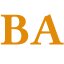
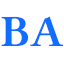
setup projects

Changed region(s): [[0.0, 0.2188, 0.4688, 0.7188], [0.4688, 0.2188, 1.0, 0.7188]]

diff --git a/pages/schedulesystem.jsx b/pages/schedulesystem.jsx
@@ -1,10 +1,10 @@
 import Image from 'next/image';
 import React from 'react';
-import netflixImg from '../public/assets/projects/netflix.jpg';
+import cryptoImg from '../public/assets/projects/schedulesystem.png';
 import { RiRadioButtonFill } from 'react-icons/ri';
 import Link from 'next/link';
 
-const netflix = () => {
+const schedulesystem = () => {
   return (
     <div className='w-full'>
       <div className='w-screen h-[50vh] relative'>
@@ -13,12 +13,12 @@ const netflix = () => {
           className='absolute z-1'
           layout='fill'
           objectFit='cover'
-          src={netflixImg}
+          src={cryptoImg}
           alt='/'
         />
         <div className='absolute top-[70%] max-w-[1240px] w-full left-[50%] right-[50%] translate-x-[-50%] translate-y-[-50%] text-white z-10 p-2'>
-          <h2 className='py-2'>Netflix App</h2>
-          <h3>React JS / Tailwind / Firebase</h3>
+          <h2 className='py-2'>Scheduling System</h2>
+          <h3>mySQL / Java / phpMyAdmin</h3>
         </div>
       </div>
 
@@ -26,48 +26,44 @@ const netflix = () => {
         <div className='col-span-4'>
           <p>Project</p>
           <h2>Overview</h2>
-          <p>
-            I built this application in React JS and is hosted on GitHub pages.
-            This app features user authentication with firebase as well as the
-            firestore cloud storage database. This application is pulling movie
-            data from an the IMDB movie API and displaying different categories.
-            It features horizontal sliding and a featured selection. The
-            useContext hook is also being implemented for app-wide state
-            management.
+          <p className='py-8'>
+          The goal of this project is to create a software that will schedule courses to rooms and add students to each. 
+          The software that we have built uses a GUI to show the connection between databases, courses, and rooms. 
+          There are two databases one for storing courses and another for storing rooms. 
+          The databases are connected to using SQL a “structured query language”. 
+          The databases are changed in a CRUD manner, create, updated, manage, and delete. We first load information to the database using file I/O with excel spreadsheets. This is meant to simulate already existing information.
           </p>
           <a
-            href='https://github.com/fireclint/netflix-react-tailwind'
+            href=''
             target='_blank'
             rel='noreferrer'
           >
             <button className='px-8 py-2 mt-4 mr-8'>Code</button>
           </a>
           <a
-            href='https://fireclint.github.io/netflix-react-tailwind/'
+            href='https://www.youtube.com/watch?v=xPDAesFaRYI'
             target='_blank'
             rel='noreferrer'
           >
             <button className='px-8 py-2 mt-4'>Demo</button>
           </a>
+
         </div>
         <div className='col-span-4 md:col-span-1 shadow-xl shadow-gray-400 rounded-xl py-4'>
           <div className='p-2'>
             <p className='text-center font-bold pb-2'>Technologies</p>
-            <div className='grid grid-cols-3 md:grid-cols-1'>
+            <div className='grid grid-cols-3 md:grid-cols-1 '>
               <p className='text-gray-600 py-2 flex items-center'>
-                <RiRadioButtonFill className='pr-1' /> React
+                <RiRadioButtonFill className='pr-1' /> mySQL
               </p>
               <p className='text-gray-600 py-2 flex items-center'>
-                <RiRadioButtonFill className='pr-1' /> Tailwind
+                <RiRadioButtonFill className='pr-1' /> Java
               </p>
               <p className='text-gray-600 py-2 flex items-center'>
-                <RiRadioButtonFill className='pr-1' /> Javascript
+                <RiRadioButtonFill className='pr-1' /> JavaFX
               </p>
               <p className='text-gray-600 py-2 flex items-center'>
-                <RiRadioButtonFill className='pr-1' /> Firebase
-              </p>
-              <p className='text-gray-600 py-2 flex items-center'>
-                <RiRadioButtonFill className='pr-1' /> IMDB API
+                <RiRadioButtonFill className='pr-1' /> phpMyAdmin 
               </p>
             </div>
           </div>
@@ -80,4 +76,4 @@ const netflix = () => {
   );
 };
 
-export default netflix;
+export default schedulesystem;

diff --git a/pages/personal.jsx b/pages/personal.jsx
@@ -1,10 +1,10 @@
 import Image from 'next/image';
 import React from 'react';
-import cryptoImg from '../public/assets/projects/crypto.jpg';
+import netflixImg from '../public/assets/projects/personal.png';
 import { RiRadioButtonFill } from 'react-icons/ri';
 import Link from 'next/link';
 
-const crypto = () => {
+const personal = () => {
   return (
     <div className='w-full'>
       <div className='w-screen h-[50vh] relative'>
@@ -13,12 +13,12 @@ const crypto = () => {
           className='absolute z-1'
           layout='fill'
           objectFit='cover'
-          src={cryptoImg}
+          src={netflixImg}
           alt='/'
         />
         <div className='absolute top-[70%] max-w-[1240px] w-full left-[50%] right-[50%] translate-x-[-50%] translate-y-[-50%] text-white z-10 p-2'>
-          <h2 className='py-2'>Crypto App</h2>
-          <h3>React JS / Tailwind / Firebase</h3>
+          <h2 className='py-2'>Porftolio Website</h2>
+          <h3>React JS / Tailwind</h3>
         </div>
       </div>
 
@@ -26,37 +26,29 @@ const crypto = () => {
         <div className='col-span-4'>
           <p>Project</p>
           <h2>Overview</h2>
-          <p>
-            I built this app to demonstrate knowledge working in React JS and
-            accessing API endpoints. This app was built using React JS and is
-            hosted on Firebase. This application supports user authentication
-            using firebase. Users are able to create a new account using their
-            email address and can then sign in to save coins to a user specific
-            list. This is made possble by creating a firestore cloud storage
-            database at the time of user registration. Another feature of this
-            application is dynamic routing through the &quot;React Router DOM&quot;
-            package. This application was built using the Coin Gecko API.
+          <p className='py-8'>
+          This is a web programming project that uses react and tailwind.
+          This website contains my projects and a introduction to myself.
           </p>
           <a
-            href='https://github.com/fireclint/crypto-react-firebase'
+            href='https://github.com/Sirpip91/personal-portfolio'
             target='_blank'
             rel='noreferrer'
           >
             <button className='px-8 py-2 mt-4 mr-8'>Code</button>
           </a>
           <a
-            href='https://cryptobase-yt.web.app/'
+            href='https://bradley-allen.com/'
             target='_blank'
             rel='noreferrer'
           >
             <button className='px-8 py-2 mt-4'>Demo</button>
           </a>
-
         </div>
         <div className='col-span-4 md:col-span-1 shadow-xl shadow-gray-400 rounded-xl py-4'>
           <div className='p-2'>
             <p className='text-center font-bold pb-2'>Technologies</p>
-            <div className='grid grid-cols-3 md:grid-cols-1 '>
+            <div className='grid grid-cols-3 md:grid-cols-1'>
               <p className='text-gray-600 py-2 flex items-center'>
                 <RiRadioButtonFill className='pr-1' /> React
               </p>
@@ -67,13 +59,7 @@ const crypto = () => {
                 <RiRadioButtonFill className='pr-1' /> Javascript
               </p>
               <p className='text-gray-600 py-2 flex items-center'>
-                <RiRadioButtonFill className='pr-1' /> Firebase
-              </p>
-              <p className='text-gray-600 py-2 flex items-center'>
-                <RiRadioButtonFill className='pr-1' /> Coin Gecko API
-              </p>
-              <p className='text-gray-600 py-2 flex items-center'>
-                <RiRadioButtonFill className='pr-1' /> Routes
+                <RiRadioButtonFill className='pr-1' /> HTML
               </p>
             </div>
           </div>
@@ -86,4 +72,4 @@ const crypto = () => {
   );
 };
 
-export default crypto;
+export default personal;

diff --git a/components/Projects.jsx b/components/Projects.jsx
@@ -2,8 +2,8 @@ import Image from 'next/image';
 import Link from 'next/link';
 import React from 'react';
 import Wargames from '../public/assets/projects/wargames.jpg';
-import cryptoImg from '../public/assets/projects/crypto.jpg'
-import netflixImg from '../public/assets/projects/netflix.jpg'
+import cryptoImg from '../public/assets/projects/schedulesystem.png'
+import netflixImg from '../public/assets/projects/personal.png'
 import twitchImg from '../public/assets/projects/twitch.jpg'
 import ProjectItem from './ProjectItem';
 
@@ -11,7 +11,7 @@ const Projects = () => {
   return (
     <div id='projects' className='w-full'>
       <div className='max-w-[1240px] mx-auto px-2 py-16'>
-        <p className='text-xl tracking-widest uppercase text-[#E18A07]'>
+        <p className='text-xl tracking-widest uppercase text-[#0e6fff]'>
           Projects
         </p>
         <h2 className='py-4'>What I&apos;ve Built</h2>
@@ -23,26 +23,19 @@ const Projects = () => {
             tech='Java/JavaFX'
           />
           <ProjectItem
-            title='Crypto App'
+            title='Schedule System'
             backgroundImg={cryptoImg}
-            projectUrl='/crypto'
-            tech='React JS'
-
+            projectUrl='/schedulesystem'
+            tech='mySQL/Java'
           />
+
           <ProjectItem
-            title='Netflix App'
+            title='Portfolio Website'
             backgroundImg={netflixImg}
-            projectUrl='/netflix'
-            tech='React JS'
-
+            projectUrl='/personal'
+            tech='React/Tailwind'
           />
-          <ProjectItem
-            title='Twitch UI'
-            backgroundImg={twitchImg}
-            projectUrl='/twitch'
-            tech='Next JS'
 
-          />
         </div>
       </div>
     </div>

diff --git a/components/About.jsx b/components/About.jsx
@@ -8,18 +8,18 @@ const About = () => {
     <div id='about' className='w-full md:h-screen p-2 flex items-center py-16'>
       <div className='max-w-[1240px] m-auto md:grid grid-cols-3 gap-8'>
         <div className='col-span-2'>
-          <p className='uppercase text-xl tracking-widest text-[#E18A07]'>
+          <p className='uppercase text-xl tracking-widest text-[#0e6fff]'>
             About
           </p>
-          <h2 className='py-4'>Bradley Allen</h2>
+          <h2 className='py-2'>Bradley Allen</h2>
           <p className='py-2 text-gray-600'>
             
           </p>
-          <p className='py-2 text-gray-900 text-2xl'>
+          <p className='py-4 text-gray-900 text-xl'>
             I am a Self taught <b>Software Engineer</b> attending  <b>Lamar University</b>. I enjoy developing software that is linked closely
              to the hardware.
           </p>
-          <p className='py-2 text-gray-900 text-2xl'>
+          <p className='py-2 text-gray-900 text-xl'>
            <b>Interests:</b><br></br>
            Machine Learning, Artificial Intelligence, and Web Development
           </p>
@@ -27,7 +27,7 @@ const About = () => {
 
 
           <Link href='/#projects'>
-            <p className='py-2 text-gray-600 underline cursor-pointer'>
+            <p className='py-6 text-gray-600 underline cursor-pointer'>
               Check out some of my latest projects.
             </p>
           </Link>

diff --git a/components/Navbar.jsx b/components/Navbar.jsx
@@ -6,6 +6,7 @@ import { FaGithub, FaLinkedinIn } from 'react-icons/fa';
 import { BsFillPersonLinesFill } from 'react-icons/bs';
 // import { useRouter } from 'next/router';
 import NavLogo from '../public/assets/navLogo.png'
+import autoprefixer from 'autoprefixer';
 
 const Navbar = () => {
   const [nav, setNav] = useState(false);
@@ -119,8 +120,8 @@ const Navbar = () => {
                 <a>
                   <Image
                     src={NavLogo}
-                    width='87'
-                    height='35'
+                    width='80'
+                    height= '78'
                     alt='/'
                   />
                 </a>
@@ -134,7 +135,7 @@ const Navbar = () => {
             </div>
             <div className='border-b border-gray-300 my-4'>
               <p className='w-[85%] md:w-[90%] py-4'>
-                Let&#39;s build something legendary together
+                Let&#39;s code some projects!
               </p>
             </div>
           </div>
@@ -172,7 +173,7 @@ const Navbar = () => {
               </Link>
             </ul>
             <div className='pt-40'>
-              <p className='uppercase tracking-widest text-[#5651e5]'>
+              <p className='uppercase tracking-widest text-[#0e6fff]'>
                 Let&#39;s Connect
               </p>
               <div className='flex items-center justify-between my-4 w-full sm:w-[80%]'>

diff --git a/components/Contact.jsx b/components/Contact.jsx
@@ -25,7 +25,7 @@ const Contact = () => {
   return (
     <div id='contact' className='w-full lg:h-screen'>
       <div className='max-w-[1240px] m-auto px-2 py-16 w-full '>
-        <p className='text-xl tracking-widest uppercase text-[#E18A07]'>
+        <p className='text-xl tracking-widest uppercase text-[#0e6fff]'>
           Contact
         </p>
         <h2 className='py-4'>Get In Touch</h2>
@@ -159,7 +159,7 @@ const Contact = () => {
             <a>
               <div className='rounded-full shadow-lg shadow-gray-400 p-4 cursor-pointer hover:scale-110 ease-in duration-300'>
                 <HiOutlineChevronDoubleUp
-                  className='text-[#E18A07]'
+                  className='text-[#0e6fff]'
                   size={30}
                 />
               </div>

diff --git a/components/ProjectItem.jsx b/components/ProjectItem.jsx
@@ -4,7 +4,7 @@ import React from 'react'
 
 const ProjectItem = ({title, backgroundImg, tech, projectUrl}) => {
   return (
-    <div className='relative flex items-center justify-center h-auto w-full shadow-xl shadow-gray-400 rounded-xl group hover:bg-gradient-to-r from-[#ff7f08] to-[#faad666c]'>
+    <div className='relative flex items-center justify-center h-auto w-full shadow-xl shadow-gray-400 rounded-xl group hover:bg-gradient-to-r from-[#0e6fff] to-[#2c41ff6c]'>
     <Image className='rounded-xl group-hover:opacity-10' src={backgroundImg} alt='/' /> 
     <div className='hidden group-hover:block absolute top-[50%] left-[50%] translate-x-[-50%] translate-y-[-50%]'>
         <h3 className='text-2xl text-white tracking-wider text-center'>{title}</h3>

diff --git a/components/Main.jsx b/components/Main.jsx
@@ -13,7 +13,7 @@ const Main = () => {
             LET&#39;S CODE
           </p>
           <h1 className='py-4 text-gray-700'>
-            Hi, I&#39;m <span className='text-[#E18A07]'> Bradley</span>
+            Hi, I&#39;m <span className='text-[#0e6fff]'> Bradley</span>
           </h1>
           <h1 className='py-2 text-gray-700'>A Sofware Engineer</h1>
           <p className='py-4 text-gray-600 sm:max-w-[70%] m-auto'>

diff --git a/components/Skills.jsx b/components/Skills.jsx
@@ -19,7 +19,7 @@ const Skills = () => {
   return (
     <div id='skills' className='w-full lg:h-screen p-2'>
       <div className='max-w-[1240px] mx-auto flex flex-col justify-center h-full'>
-        <p className='text-xl tracking-widest uppercase text-[#E18A07]'>
+        <p className='text-xl tracking-widest uppercase text-[#0e6fff]'>
           Skills
         </p>
         <h2 className='py-4'>Tech Stack:</h2>

diff --git a/styles/globals.css b/styles/globals.css
@@ -32,7 +32,7 @@ html {
   }
 
   button {
-    @apply shadow-xl shadow-gray-400 rounded-xl uppercase bg-gradient-to-r from-[#FF8008] to-[#ff7f08ad] text-white
+    @apply shadow-xl shadow-gray-400 rounded-xl uppercase bg-gradient-to-r from-[#0e6fff] to-[#2c41ff6c] text-white
    
  
    
